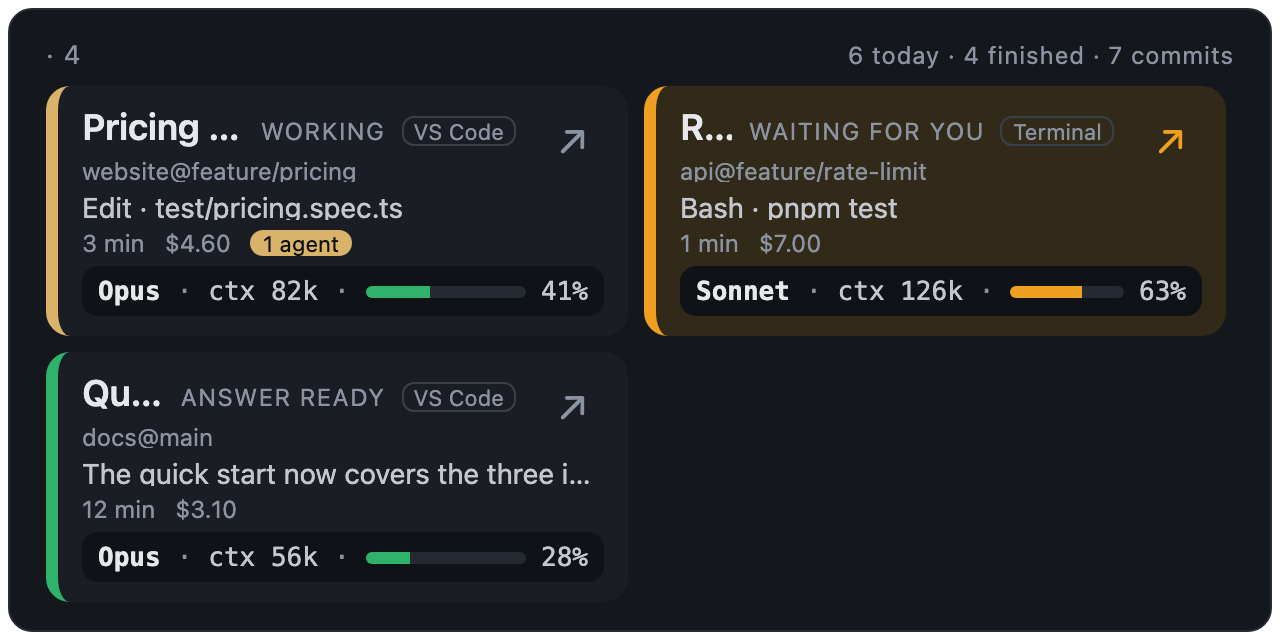
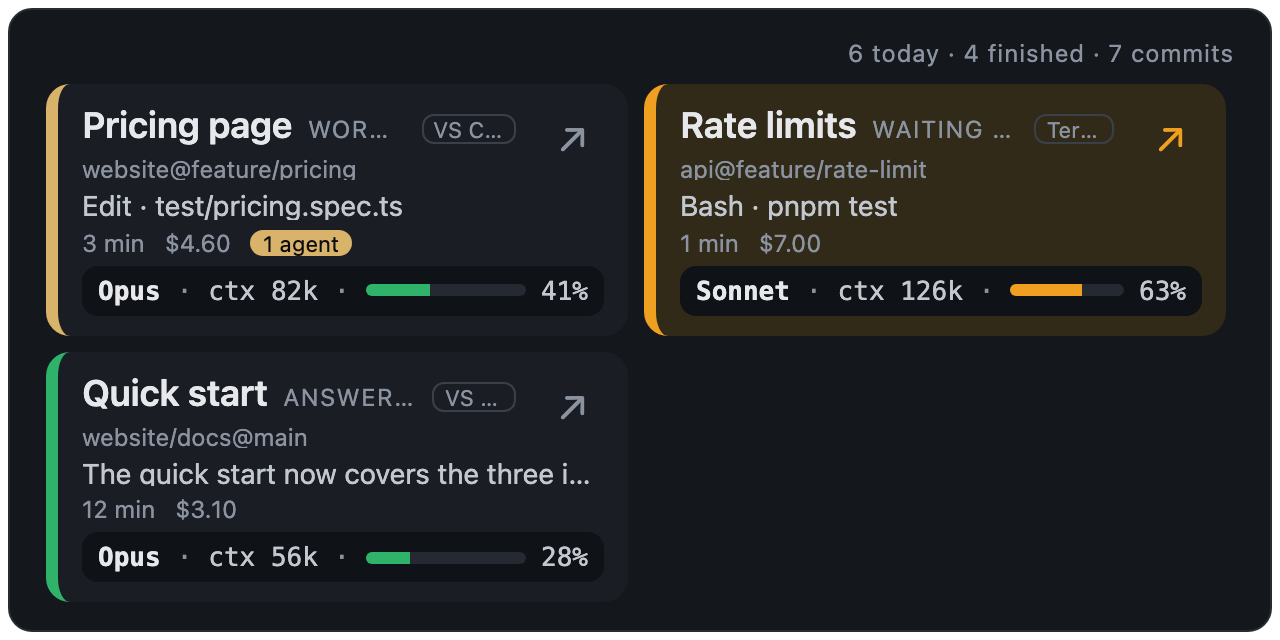
Keep a Claude session card's title whole
The title is what tells one session from another, and now that it carries the
`/rename` name it is often longer than a project's; the state badge and the
application label took their full width first and cut it to "R…". The title now
keeps its width and the two labels give way, the coloured edge still saying the
state. The demo sessions gain a repository and a place, so the preview shows the
new line under the title.

diff --git a/widgets/claude-sessions/index.html b/widgets/claude-sessions/index.html
@@ -37,6 +37,11 @@
   .hdr{display:flex;justify-content:flex-end;align-items:baseline;flex:0 0 auto}
   .stats{font-size:calc(12px * var(--text-scale, 1));color:var(--text-muted, #8b93a0);letter-spacing:.04em}
   .title{font-size:calc(18px * var(--text-scale, 1));font-weight:600;white-space:nowrap;overflow:hidden;text-overflow:ellipsis}
+  /* The title is what tells one session from another: it keeps most of the row, and the state and
+     the application give way first. */
+  .head .title{flex:0 0 auto;max-width:100%}
+  .head .badge,.head .client{flex:0 1 auto;min-width:0;overflow:hidden;text-overflow:ellipsis}
+  .head .client:empty,.head .badge:empty{display:none}
   .where{font-size:calc(12px * var(--text-scale, 1));color:var(--text-muted, #8b93a0);white-space:nowrap;overflow:hidden;text-overflow:ellipsis}
   .foot{display:flex;align-items:center;gap:8px;margin-top:auto;font-family:var(--font-mono, ui-monospace,SFMono-Regular,Menlo,monospace);font-size:calc(13px * var(--text-scale, 1));color:#c3c8d0;background:#0f1216;border-radius:8px;padding:5px 8px}
   .foot .model{color:var(--text, #e6e8eb);font-weight:600}

diff --git a/server/src/demo/world.ts b/server/src/demo/world.ts
@@ -170,6 +170,6 @@ export const DEMO_CLIPBOARD = [
 export const DEMO_SESSIONS = [
   { project: 'website', title: 'Pricing page', branch: 'feature/pricing', state: 'working', tool: 'Edit', toolDetail: 'src/pages/pricing.vue', model: 'Opus', minutesAgo: 3, pct: 41 },
   { project: 'api', title: 'Rate limits', branch: 'feature/rate-limit', state: 'permission', tool: 'Bash', toolDetail: 'pnpm test', model: 'Sonnet', minutesAgo: 1, pct: 63 },
-  { project: 'docs', title: 'Quick start', branch: 'main', state: 'done', model: 'Opus', minutesAgo: 12, pct: 28, lastMessage: 'The quick start now covers the three install paths.' },
-  { project: 'mobile-app', title: 'Flaky login', branch: 'hotfix/login', state: 'idle', model: 'Sonnet', minutesAgo: 40, pct: 12 },
+  { project: 'docs', repo: 'website', place: 'docs', title: 'Quick start', branch: 'main', state: 'done', model: 'Opus', minutesAgo: 12, pct: 28, lastMessage: 'The quick start now covers the three install paths.' },
+  { project: 'mobile-app', repo: 'mobile-app', branch: 'hotfix/login', state: 'idle', model: 'Sonnet', minutesAgo: 40, pct: 12 },
 ] as const

diff --git a/server/src/demo/providers.ts b/server/src/demo/providers.ts
@@ -389,7 +389,9 @@ function claudeProviders(now: () => number, config: () => Config): Provider[] {
         sessionId,
         project: s.project,
         cwd: `/Users/demo/Projects/${s.project}`,
-        title: s.title,
+        ...('title' in s ? { title: s.title } : {}),
+        ...('repo' in s ? { repo: s.repo } : {}),
+        ...('place' in s ? { place: s.place } : {}),
         branch: s.branch,
         model: s.model,
         state: s.state,
